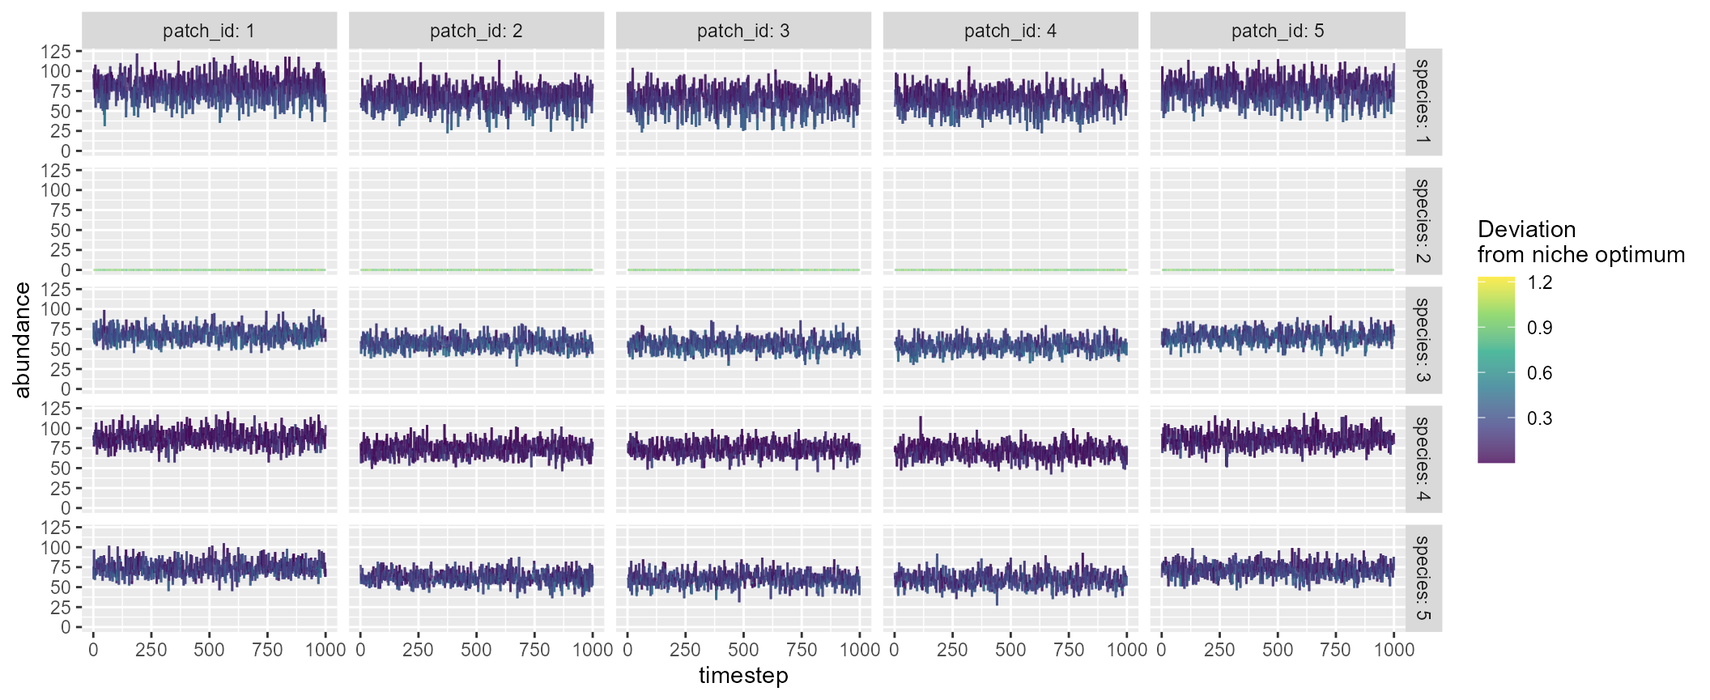
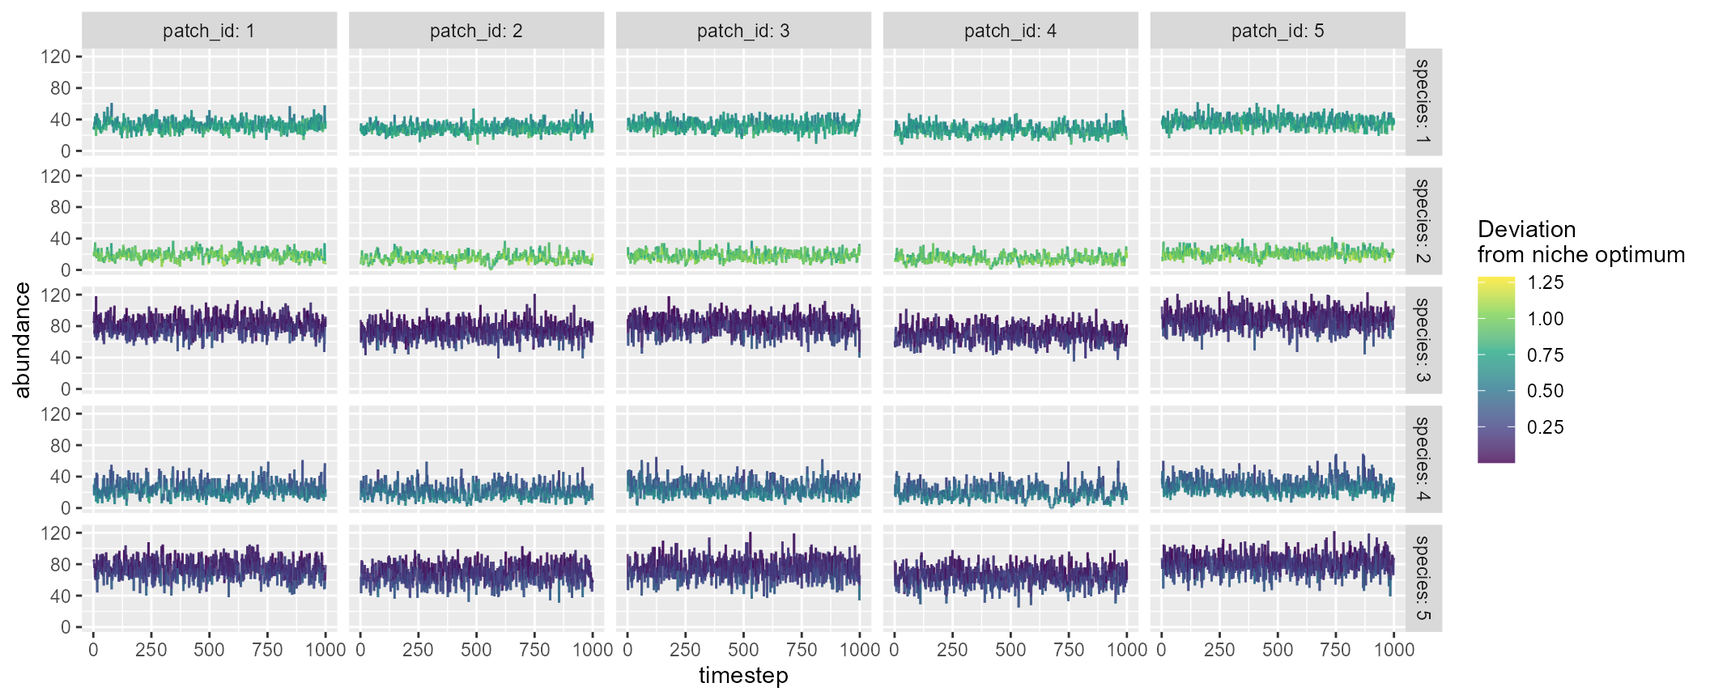
edit: pkg website

diff --git a/docs/articles/mcsim.html b/docs/articles/mcsim.html
@@ -221,16 +221,16 @@ species that are randomly chosen:</p>
 <span><span class="co">#&gt; <span style="color: #949494;"># A tibble: 25,000 × 9</span></span></span>
 <span><span class="co">#&gt;    timestep patch_id mean_env     env carrying_capacity species niche_optim</span></span>
 <span><span class="co">#&gt;       <span style="color: #949494; font-style: italic;">&lt;dbl&gt;</span>    <span style="color: #949494; font-style: italic;">&lt;dbl&gt;</span>    <span style="color: #949494; font-style: italic;">&lt;dbl&gt;</span>   <span style="color: #949494; font-style: italic;">&lt;dbl&gt;</span>             <span style="color: #949494; font-style: italic;">&lt;dbl&gt;</span>   <span style="color: #949494; font-style: italic;">&lt;dbl&gt;</span>       <span style="color: #949494; font-style: italic;">&lt;dbl&gt;</span></span></span>
-<span><span class="co">#&gt; <span style="color: #BCBCBC;"> 1</span>        1        1        0  0.099<span style="text-decoration: underline;">3</span>               100       1      0.178 </span></span>
-<span><span class="co">#&gt; <span style="color: #BCBCBC;"> 2</span>        1        1        0  0.099<span style="text-decoration: underline;">3</span>               100       2     -<span style="color: #BB0000;">0.913</span> </span></span>
-<span><span class="co">#&gt; <span style="color: #BCBCBC;"> 3</span>        1        1        0  0.099<span style="text-decoration: underline;">3</span>               100       3     -<span style="color: #BB0000;">0.281</span> </span></span>
-<span><span class="co">#&gt; <span style="color: #BCBCBC;"> 4</span>        1        1        0  0.099<span style="text-decoration: underline;">3</span>               100       4     -<span style="color: #BB0000;">0.062</span><span style="color: #BB0000; text-decoration: underline;">2</span></span></span>
-<span><span class="co">#&gt; <span style="color: #BCBCBC;"> 5</span>        1        1        0  0.099<span style="text-decoration: underline;">3</span>               100       5     -<span style="color: #BB0000;">0.213</span> </span></span>
-<span><span class="co">#&gt; <span style="color: #BCBCBC;"> 6</span>        1        2        0 -<span style="color: #BB0000;">0.015</span><span style="color: #BB0000; text-decoration: underline;">5</span>               100       1      0.178 </span></span>
-<span><span class="co">#&gt; <span style="color: #BCBCBC;"> 7</span>        1        2        0 -<span style="color: #BB0000;">0.015</span><span style="color: #BB0000; text-decoration: underline;">5</span>               100       2     -<span style="color: #BB0000;">0.913</span> </span></span>
-<span><span class="co">#&gt; <span style="color: #BCBCBC;"> 8</span>        1        2        0 -<span style="color: #BB0000;">0.015</span><span style="color: #BB0000; text-decoration: underline;">5</span>               100       3     -<span style="color: #BB0000;">0.281</span> </span></span>
-<span><span class="co">#&gt; <span style="color: #BCBCBC;"> 9</span>        1        2        0 -<span style="color: #BB0000;">0.015</span><span style="color: #BB0000; text-decoration: underline;">5</span>               100       4     -<span style="color: #BB0000;">0.062</span><span style="color: #BB0000; text-decoration: underline;">2</span></span></span>
-<span><span class="co">#&gt; <span style="color: #BCBCBC;">10</span>        1        2        0 -<span style="color: #BB0000;">0.015</span><span style="color: #BB0000; text-decoration: underline;">5</span>               100       5     -<span style="color: #BB0000;">0.213</span> </span></span>
+<span><span class="co">#&gt; <span style="color: #BCBCBC;"> 1</span>        1        1        0  0.049<span style="text-decoration: underline;">3</span>               100       1       0.709</span></span>
+<span><span class="co">#&gt; <span style="color: #BCBCBC;"> 2</span>        1        1        0  0.049<span style="text-decoration: underline;">3</span>               100       2       0.936</span></span>
+<span><span class="co">#&gt; <span style="color: #BCBCBC;"> 3</span>        1        1        0  0.049<span style="text-decoration: underline;">3</span>               100       3      -<span style="color: #BB0000;">0.140</span></span></span>
+<span><span class="co">#&gt; <span style="color: #BCBCBC;"> 4</span>        1        1        0  0.049<span style="text-decoration: underline;">3</span>               100       4       0.475</span></span>
+<span><span class="co">#&gt; <span style="color: #BCBCBC;"> 5</span>        1        1        0  0.049<span style="text-decoration: underline;">3</span>               100       5      -<span style="color: #BB0000;">0.193</span></span></span>
+<span><span class="co">#&gt; <span style="color: #BCBCBC;"> 6</span>        1        2        0 -<span style="color: #BB0000;">0.035</span><span style="color: #BB0000; text-decoration: underline;">0</span>               100       1       0.709</span></span>
+<span><span class="co">#&gt; <span style="color: #BCBCBC;"> 7</span>        1        2        0 -<span style="color: #BB0000;">0.035</span><span style="color: #BB0000; text-decoration: underline;">0</span>               100       2       0.936</span></span>
+<span><span class="co">#&gt; <span style="color: #BCBCBC;"> 8</span>        1        2        0 -<span style="color: #BB0000;">0.035</span><span style="color: #BB0000; text-decoration: underline;">0</span>               100       3      -<span style="color: #BB0000;">0.140</span></span></span>
+<span><span class="co">#&gt; <span style="color: #BCBCBC;"> 9</span>        1        2        0 -<span style="color: #BB0000;">0.035</span><span style="color: #BB0000; text-decoration: underline;">0</span>               100       4       0.475</span></span>
+<span><span class="co">#&gt; <span style="color: #BCBCBC;">10</span>        1        2        0 -<span style="color: #BB0000;">0.035</span><span style="color: #BB0000; text-decoration: underline;">0</span>               100       5      -<span style="color: #BB0000;">0.193</span></span></span>
 <span><span class="co">#&gt; <span style="color: #949494;"># ℹ 24,990 more rows</span></span></span>
 <span><span class="co">#&gt; <span style="color: #949494;"># ℹ 2 more variables: r_xt &lt;dbl&gt;, abundance &lt;dbl&gt;</span></span></span>
 <span><span class="co">#&gt; </span></span>
@@ -238,45 +238,45 @@ species that are randomly chosen:</p>
 <span><span class="co">#&gt; <span style="color: #949494;"># A tibble: 5 × 6</span></span></span>
 <span><span class="co">#&gt;   species mean_abundance    r0 niche_optim sd_niche_width p_dispersal</span></span>
 <span><span class="co">#&gt;     <span style="color: #949494; font-style: italic;">&lt;dbl&gt;</span>          <span style="color: #949494; font-style: italic;">&lt;dbl&gt;</span> <span style="color: #949494; font-style: italic;">&lt;dbl&gt;</span>       <span style="color: #949494; font-style: italic;">&lt;dbl&gt;</span>          <span style="color: #949494; font-style: italic;">&lt;dbl&gt;</span>       <span style="color: #949494; font-style: italic;">&lt;dbl&gt;</span></span></span>
-<span><span class="co">#&gt; <span style="color: #BCBCBC;">1</span>       1           69.7     4      0.178           0.313         0.1</span></span>
-<span><span class="co">#&gt; <span style="color: #BCBCBC;">2</span>       2            0       4     -<span style="color: #BB0000;">0.913</span>           0.400         0.1</span></span>
-<span><span class="co">#&gt; <span style="color: #BCBCBC;">3</span>       3           60.0     4     -<span style="color: #BB0000;">0.281</span>           0.735         0.1</span></span>
-<span><span class="co">#&gt; <span style="color: #BCBCBC;">4</span>       4           78.4     4     -<span style="color: #BB0000;">0.062</span><span style="color: #BB0000; text-decoration: underline;">2</span>          0.549         0.1</span></span>
-<span><span class="co">#&gt; <span style="color: #BCBCBC;">5</span>       5           65.3     4     -<span style="color: #BB0000;">0.213</span>           0.689         0.1</span></span>
+<span><span class="co">#&gt; <span style="color: #BCBCBC;">1</span>       1           31.3     4       0.709          0.842         0.1</span></span>
+<span><span class="co">#&gt; <span style="color: #BCBCBC;">2</span>       2           17.3     4       0.936          0.952         0.1</span></span>
+<span><span class="co">#&gt; <span style="color: #BCBCBC;">3</span>       3           78.9     4      -<span style="color: #BB0000;">0.140</span>          0.413         0.1</span></span>
+<span><span class="co">#&gt; <span style="color: #BCBCBC;">4</span>       4           23.4     4       0.475          0.387         0.1</span></span>
+<span><span class="co">#&gt; <span style="color: #BCBCBC;">5</span>       5           72.3     4      -<span style="color: #BB0000;">0.193</span>          0.387         0.1</span></span>
 <span><span class="co">#&gt; </span></span>
 <span><span class="co">#&gt; $df_patch</span></span>
 <span><span class="co">#&gt; <span style="color: #949494;"># A tibble: 5 × 5</span></span></span>
 <span><span class="co">#&gt;   patch_id alpha_div mean_env carrying_capacity disturbance</span></span>
 <span><span class="co">#&gt;      <span style="color: #949494; font-style: italic;">&lt;dbl&gt;</span>     <span style="color: #949494; font-style: italic;">&lt;dbl&gt;</span>    <span style="color: #949494; font-style: italic;">&lt;dbl&gt;</span>             <span style="color: #949494; font-style: italic;">&lt;dbl&gt;</span>       <span style="color: #949494; font-style: italic;">&lt;dbl&gt;</span></span></span>
-<span><span class="co">#&gt; <span style="color: #BCBCBC;">1</span>        1         4        0               100           0</span></span>
-<span><span class="co">#&gt; <span style="color: #BCBCBC;">2</span>        2         4        0               100           0</span></span>
-<span><span class="co">#&gt; <span style="color: #BCBCBC;">3</span>        3         4        0               100           0</span></span>
-<span><span class="co">#&gt; <span style="color: #BCBCBC;">4</span>        4         4        0               100           0</span></span>
-<span><span class="co">#&gt; <span style="color: #BCBCBC;">5</span>        5         4        0               100           0</span></span>
+<span><span class="co">#&gt; <span style="color: #BCBCBC;">1</span>        1      5           0               100           0</span></span>
+<span><span class="co">#&gt; <span style="color: #BCBCBC;">2</span>        2      5.00        0               100           0</span></span>
+<span><span class="co">#&gt; <span style="color: #BCBCBC;">3</span>        3      5           0               100           0</span></span>
+<span><span class="co">#&gt; <span style="color: #BCBCBC;">4</span>        4      4.99        0               100           0</span></span>
+<span><span class="co">#&gt; <span style="color: #BCBCBC;">5</span>        5      5           0               100           0</span></span>
 <span><span class="co">#&gt; </span></span>
 <span><span class="co">#&gt; $df_diversity</span></span>
 <span><span class="co">#&gt; <span style="color: #949494;"># A tibble: 1 × 3</span></span></span>
 <span><span class="co">#&gt;   alpha_div beta_div gamma_div</span></span>
 <span><span class="co">#&gt;       <span style="color: #949494; font-style: italic;">&lt;dbl&gt;</span>    <span style="color: #949494; font-style: italic;">&lt;dbl&gt;</span>     <span style="color: #949494; font-style: italic;">&lt;dbl&gt;</span></span></span>
-<span><span class="co">#&gt; <span style="color: #BCBCBC;">1</span>         4        1         4</span></span>
+<span><span class="co">#&gt; <span style="color: #BCBCBC;">1</span>      5.00     1.00         5</span></span>
 <span><span class="co">#&gt; </span></span>
 <span><span class="co">#&gt; $df_xy_coord</span></span>
 <span><span class="co">#&gt; <span style="color: #949494;"># A tibble: 5 × 2</span></span></span>
 <span><span class="co">#&gt;   x_coord y_coord</span></span>
 <span><span class="co">#&gt;     <span style="color: #949494; font-style: italic;">&lt;dbl&gt;</span>   <span style="color: #949494; font-style: italic;">&lt;dbl&gt;</span></span></span>
-<span><span class="co">#&gt; <span style="color: #BCBCBC;">1</span>   5.47    6.29 </span></span>
-<span><span class="co">#&gt; <span style="color: #BCBCBC;">2</span>   2.25    3.60 </span></span>
-<span><span class="co">#&gt; <span style="color: #BCBCBC;">3</span>   3.49    9.80 </span></span>
-<span><span class="co">#&gt; <span style="color: #BCBCBC;">4</span>   0.151   0.410</span></span>
-<span><span class="co">#&gt; <span style="color: #BCBCBC;">5</span>   7.37    7.78 </span></span>
+<span><span class="co">#&gt; <span style="color: #BCBCBC;">1</span>    4.95   0.397</span></span>
+<span><span class="co">#&gt; <span style="color: #BCBCBC;">2</span>    9.27   2.76 </span></span>
+<span><span class="co">#&gt; <span style="color: #BCBCBC;">3</span>    3.86   7.84 </span></span>
+<span><span class="co">#&gt; <span style="color: #BCBCBC;">4</span>    9.06   9.04 </span></span>
+<span><span class="co">#&gt; <span style="color: #BCBCBC;">5</span>    3.70   4.06 </span></span>
 <span><span class="co">#&gt; </span></span>
 <span><span class="co">#&gt; $distance_matrix</span></span>
-<span><span class="co">#&gt;          1        2        3         4         5</span></span>
-<span><span class="co">#&gt; 1 0.000000 4.189537 4.033452  7.925753  2.416469</span></span>
-<span><span class="co">#&gt; 2 4.189537 0.000000 6.323301  3.821493  6.605253</span></span>
-<span><span class="co">#&gt; 3 4.033452 6.323301 0.000000  9.968424  4.376733</span></span>
-<span><span class="co">#&gt; 4 7.925753 3.821493 9.968424  0.000000 10.315246</span></span>
-<span><span class="co">#&gt; 5 2.416469 6.605253 4.376733 10.315246  0.000000</span></span>
+<span><span class="co">#&gt;          1        2        3        4        5</span></span>
+<span><span class="co">#&gt; 1 0.000000 4.923168 7.524682 9.565839 3.867242</span></span>
+<span><span class="co">#&gt; 2 4.923168 0.000000 7.421792 6.274946 5.719286</span></span>
+<span><span class="co">#&gt; 3 7.524682 7.421792 0.000000 5.340384 3.789696</span></span>
+<span><span class="co">#&gt; 4 9.565839 6.274946 5.340384 0.000000 7.319398</span></span>
+<span><span class="co">#&gt; 5 3.867242 5.719286 3.789696 7.319398 0.000000</span></span>
 <span><span class="co">#&gt; </span></span>
 <span><span class="co">#&gt; $interaction_matrix</span></span>
 <span><span class="co">#&gt;      [,1] [,2] [,3] [,4] [,5]</span></span>

diff --git a/docs/articles/igpsim.html b/docs/articles/igpsim.html
@@ -211,35 +211,35 @@ by <code>plot = TRUE</code>, which will show five sample patches:</p>
 <span><span class="co">#&gt; <span style="color: #949494;"># A tibble: 15,000 × 7</span></span></span>
 <span><span class="co">#&gt;    timestep patch_id carrying_capacity disturbance species     abundance   fcl</span></span>
 <span><span class="co">#&gt;       <span style="color: #949494; font-style: italic;">&lt;dbl&gt;</span>    <span style="color: #949494; font-style: italic;">&lt;dbl&gt;</span>             <span style="color: #949494; font-style: italic;">&lt;dbl&gt;</span>       <span style="color: #949494; font-style: italic;">&lt;dbl&gt;</span> <span style="color: #949494; font-style: italic;">&lt;fct&gt;</span>           <span style="color: #949494; font-style: italic;">&lt;dbl&gt;</span> <span style="color: #949494; font-style: italic;">&lt;dbl&gt;</span></span></span>
-<span><span class="co">#&gt; <span style="color: #BCBCBC;"> 1</span>        1        1               100           0 basal              48     2</span></span>
+<span><span class="co">#&gt; <span style="color: #BCBCBC;"> 1</span>        1        1               100           0 basal              42     2</span></span>
 <span><span class="co">#&gt; <span style="color: #BCBCBC;"> 2</span>        1        1               100           0 ig-prey             0     2</span></span>
-<span><span class="co">#&gt; <span style="color: #BCBCBC;"> 3</span>        1        1               100           0 ig-predator        46     2</span></span>
-<span><span class="co">#&gt; <span style="color: #BCBCBC;"> 4</span>        1        2               100           0 basal              54     2</span></span>
+<span><span class="co">#&gt; <span style="color: #BCBCBC;"> 3</span>        1        1               100           0 ig-predator        35     2</span></span>
+<span><span class="co">#&gt; <span style="color: #BCBCBC;"> 4</span>        1        2               100           0 basal              69     2</span></span>
 <span><span class="co">#&gt; <span style="color: #BCBCBC;"> 5</span>        1        2               100           0 ig-prey             0     2</span></span>
-<span><span class="co">#&gt; <span style="color: #BCBCBC;"> 6</span>        1        2               100           0 ig-predator        28     2</span></span>
-<span><span class="co">#&gt; <span style="color: #BCBCBC;"> 7</span>        1        3               100           0 basal              57     2</span></span>
+<span><span class="co">#&gt; <span style="color: #BCBCBC;"> 6</span>        1        2               100           0 ig-predator        29     2</span></span>
+<span><span class="co">#&gt; <span style="color: #BCBCBC;"> 7</span>        1        3               100           0 basal              39     2</span></span>
 <span><span class="co">#&gt; <span style="color: #BCBCBC;"> 8</span>        1        3               100           0 ig-prey             0     2</span></span>
-<span><span class="co">#&gt; <span style="color: #BCBCBC;"> 9</span>        1        3               100           0 ig-predator        32     2</span></span>
-<span><span class="co">#&gt; <span style="color: #BCBCBC;">10</span>        1        4               100           0 basal              49     2</span></span>
+<span><span class="co">#&gt; <span style="color: #BCBCBC;"> 9</span>        1        3               100           0 ig-predator        38     2</span></span>
+<span><span class="co">#&gt; <span style="color: #BCBCBC;">10</span>        1        4               100           0 basal              59     2</span></span>
 <span><span class="co">#&gt; <span style="color: #949494;"># ℹ 14,990 more rows</span></span></span>
 <span><span class="co">#&gt; </span></span>
 <span><span class="co">#&gt; $df_species</span></span>
 <span><span class="co">#&gt; <span style="color: #949494;"># A tibble: 3 × 3</span></span></span>
 <span><span class="co">#&gt;   species     mean_abundance p_dispersal</span></span>
 <span><span class="co">#&gt;   <span style="color: #949494; font-style: italic;">&lt;fct&gt;</span>                <span style="color: #949494; font-style: italic;">&lt;dbl&gt;</span>       <span style="color: #949494; font-style: italic;">&lt;dbl&gt;</span></span></span>
-<span><span class="co">#&gt; <span style="color: #BCBCBC;">1</span> basal                 59.9         0.1</span></span>
+<span><span class="co">#&gt; <span style="color: #BCBCBC;">1</span> basal                 62.5         0.1</span></span>
 <span><span class="co">#&gt; <span style="color: #BCBCBC;">2</span> ig-prey                0           0.1</span></span>
-<span><span class="co">#&gt; <span style="color: #BCBCBC;">3</span> ig-predator           30.2         0.1</span></span>
+<span><span class="co">#&gt; <span style="color: #BCBCBC;">3</span> ig-predator           28.4         0.1</span></span>
 <span><span class="co">#&gt; </span></span>
 <span><span class="co">#&gt; $df_patch</span></span>
 <span><span class="co">#&gt; <span style="color: #949494;"># A tibble: 5 × 4</span></span></span>
 <span><span class="co">#&gt;   patch_id   fcl carrying_capacity disturbance</span></span>
 <span><span class="co">#&gt;      <span style="color: #949494; font-style: italic;">&lt;dbl&gt;</span> <span style="color: #949494; font-style: italic;">&lt;dbl&gt;</span>             <span style="color: #949494; font-style: italic;">&lt;dbl&gt;</span>       <span style="color: #949494; font-style: italic;">&lt;dbl&gt;</span></span></span>
-<span><span class="co">#&gt; <span style="color: #BCBCBC;">1</span>        1     2               100           0</span></span>
-<span><span class="co">#&gt; <span style="color: #BCBCBC;">2</span>        2     2               100           0</span></span>
-<span><span class="co">#&gt; <span style="color: #BCBCBC;">3</span>        3     2               100           0</span></span>
-<span><span class="co">#&gt; <span style="color: #BCBCBC;">4</span>        4     2               100           0</span></span>
-<span><span class="co">#&gt; <span style="color: #BCBCBC;">5</span>        5     2               100           0</span></span>
+<span><span class="co">#&gt; <span style="color: #BCBCBC;">1</span>        1  2                  100           0</span></span>
+<span><span class="co">#&gt; <span style="color: #BCBCBC;">2</span>        2  2                  100           0</span></span>
+<span><span class="co">#&gt; <span style="color: #BCBCBC;">3</span>        3  2                  100           0</span></span>
+<span><span class="co">#&gt; <span style="color: #BCBCBC;">4</span>        4  2                  100           0</span></span>
+<span><span class="co">#&gt; <span style="color: #BCBCBC;">5</span>        5  1.92               100           0</span></span>
 <span><span class="co">#&gt; </span></span>
 <span><span class="co">#&gt; $df_int</span></span>
 <span><span class="co">#&gt; <span style="color: #949494;"># A tibble: 3 × 4</span></span></span>
@@ -253,19 +253,19 @@ by <code>plot = TRUE</code>, which will show five sample patches:</p>
 <span><span class="co">#&gt; <span style="color: #949494;"># A tibble: 5 × 2</span></span></span>
 <span><span class="co">#&gt;   x_coord y_coord</span></span>
 <span><span class="co">#&gt;     <span style="color: #949494; font-style: italic;">&lt;dbl&gt;</span>   <span style="color: #949494; font-style: italic;">&lt;dbl&gt;</span></span></span>
-<span><span class="co">#&gt; <span style="color: #BCBCBC;">1</span>   7.00    2.48 </span></span>
-<span><span class="co">#&gt; <span style="color: #BCBCBC;">2</span>   0.235   0.305</span></span>
-<span><span class="co">#&gt; <span style="color: #BCBCBC;">3</span>   3.87    3.24 </span></span>
-<span><span class="co">#&gt; <span style="color: #BCBCBC;">4</span>   8.27    3.57 </span></span>
-<span><span class="co">#&gt; <span style="color: #BCBCBC;">5</span>   1.84    0.831</span></span>
+<span><span class="co">#&gt; <span style="color: #BCBCBC;">1</span>   0.418   1.27 </span></span>
+<span><span class="co">#&gt; <span style="color: #BCBCBC;">2</span>   0.144   3.77 </span></span>
+<span><span class="co">#&gt; <span style="color: #BCBCBC;">3</span>   5.35    0.986</span></span>
+<span><span class="co">#&gt; <span style="color: #BCBCBC;">4</span>   5.40    3.46 </span></span>
+<span><span class="co">#&gt; <span style="color: #BCBCBC;">5</span>   1.06    9.42 </span></span>
 <span><span class="co">#&gt; </span></span>
 <span><span class="co">#&gt; $distance_matrix</span></span>
 <span><span class="co">#&gt;          1        2        3        4        5</span></span>
-<span><span class="co">#&gt; 1 0.000000 7.108723 3.229040 1.671617 5.415148</span></span>
-<span><span class="co">#&gt; 2 7.108723 0.000000 4.667804 8.671236 1.693609</span></span>
-<span><span class="co">#&gt; 3 3.229040 4.667804 0.000000 4.414354 3.143126</span></span>
-<span><span class="co">#&gt; 4 1.671617 8.671236 4.414354 0.000000 6.982804</span></span>
-<span><span class="co">#&gt; 5 5.415148 1.693609 3.143126 6.982804 0.000000</span></span></code></pre></div>
+<span><span class="co">#&gt; 1 0.000000 2.510284 4.941324 5.442353 8.166369</span></span>
+<span><span class="co">#&gt; 2 2.510284 0.000000 5.904099 5.268891 5.719692</span></span>
+<span><span class="co">#&gt; 3 4.941324 5.904099 0.000000 2.470930 9.457988</span></span>
+<span><span class="co">#&gt; 4 5.442353 5.268891 2.470930 0.000000 7.373305</span></span>
+<span><span class="co">#&gt; 5 8.166369 5.719692 9.457988 7.373305 0.000000</span></span></code></pre></div>
 </div>
 <div class="section level2">
 <h2 id="custom-brnet-igpsim">Custom: <code>brnet()</code> + <code>igpsim()</code><a class="anchor" aria-label="anchor" href="#custom-brnet-igpsim"></a>

diff --git a/docs/reference/mcbrnet-package.html b/docs/reference/mcbrnet-package.html
@@ -1,5 +1,5 @@
 <!DOCTYPE html>
-<!-- Generated by pkgdown: do not edit by hand --><html lang="en"><head><meta http-equiv="Content-Type" content="text/html; charset=UTF-8"><meta charset="utf-8"><meta http-equiv="X-UA-Compatible" content="IE=edge"><meta name="viewport" content="width=device-width, initial-scale=1, shrink-to-fit=no"><meta name="description" content="Metacommunity simulation in branching networks."><!-- Inform modern browsers that this page supports both dark and light color schemes,
+<!-- Generated by pkgdown: do not edit by hand --><html lang="en"><head><meta http-equiv="Content-Type" content="text/html; charset=UTF-8"><meta charset="utf-8"><meta http-equiv="X-UA-Compatible" content="IE=edge"><meta name="viewport" content="width=device-width, initial-scale=1, shrink-to-fit=no"><meta name="description" content="Ecological simulation in spatial networks."><!-- Inform modern browsers that this page supports both dark and light color schemes,
   and the page author prefers light. --><meta name="color-scheme" content="dark light"><script>
   // If `prefers-color-scheme` is not supported, fall back to light mode.
   // i.e. In this case, inject the `light` CSS before the others, with
@@ -11,7 +11,7 @@
       "<link id=\"css\" rel=\"stylesheet\" href=\"https://bootswatch.com/5/flatly/bootstrap.css\" onload=\"document.documentElement.style.display = ''\">"
     );
   }
-</script><title>mcbrnet: Metacommunity simulation in branching networks — mcbrnet-package • mcbrnet</title><script src="../deps/jquery-3.6.0/jquery-3.6.0.min.js"></script><meta name="viewport" content="width=device-width, initial-scale=1, shrink-to-fit=no"><link href="../deps/bootstrap-5.1.3/bootstrap.min.css" rel="stylesheet"><script src="../deps/bootstrap-5.1.3/bootstrap.bundle.min.js"></script><!-- Font Awesome icons --><link rel="stylesheet" href="https://cdnjs.cloudflare.com/ajax/libs/font-awesome/5.12.1/css/all.min.css" integrity="sha256-mmgLkCYLUQbXn0B1SRqzHar6dCnv9oZFPEC1g1cwlkk=" crossorigin="anonymous"><link rel="stylesheet" href="https://cdnjs.cloudflare.com/ajax/libs/font-awesome/5.12.1/css/v4-shims.min.css" integrity="sha256-wZjR52fzng1pJHwx4aV2AO3yyTOXrcDW7jBpJtTwVxw=" crossorigin="anonymous"><!-- bootstrap-toc --><script src="https://cdn.rawgit.com/afeld/bootstrap-toc/v1.0.1/dist/bootstrap-toc.min.js"></script><!-- headroom.js --><script src="https://cdnjs.cloudflare.com/ajax/libs/headroom/0.11.0/headroom.min.js" integrity="sha256-AsUX4SJE1+yuDu5+mAVzJbuYNPHj/WroHuZ8Ir/CkE0=" crossorigin="anonymous"></script><script src="https://cdnjs.cloudflare.com/ajax/libs/headroom/0.11.0/jQuery.headroom.min.js" integrity="sha256-ZX/yNShbjqsohH1k95liqY9Gd8uOiE1S4vZc+9KQ1K4=" crossorigin="anonymous"></script><!-- clipboard.js --><script src="https://cdnjs.cloudflare.com/ajax/libs/clipboard.js/2.0.6/clipboard.min.js" integrity="sha256-inc5kl9MA1hkeYUt+EC3BhlIgyp/2jDIyBLS6k3UxPI=" crossorigin="anonymous"></script><!-- search --><script src="https://cdnjs.cloudflare.com/ajax/libs/fuse.js/6.4.6/fuse.js" integrity="sha512-zv6Ywkjyktsohkbp9bb45V6tEMoWhzFzXis+LrMehmJZZSys19Yxf1dopHx7WzIKxr5tK2dVcYmaCk2uqdjF4A==" crossorigin="anonymous"></script><script src="https://cdnjs.cloudflare.com/ajax/libs/autocomplete.js/0.38.0/autocomplete.jquery.min.js" integrity="sha512-GU9ayf+66Xx2TmpxqJpliWbT5PiGYxpaG8rfnBEk1LL8l1KGkRShhngwdXK1UgqhAzWpZHSiYPc09/NwDQIGyg==" crossorigin="anonymous"></script><script src="https://cdnjs.cloudflare.com/ajax/libs/mark.js/8.11.1/mark.min.js" integrity="sha512-5CYOlHXGh6QpOFA/TeTylKLWfB3ftPsde7AnmhuitiTX4K5SqCLBeKro6sPS8ilsz1Q4NRx3v8Ko2IBiszzdww==" crossorigin="anonymous"></script><!-- pkgdown --><script src="../pkgdown.js"></script><meta property="og:title" content="mcbrnet: Metacommunity simulation in branching networks — mcbrnet-package"><meta property="og:description" content="Metacommunity simulation in branching networks."><!-- mathjax --><script src="https://cdnjs.cloudflare.com/ajax/libs/mathjax/2.7.5/MathJax.js" integrity="sha256-nvJJv9wWKEm88qvoQl9ekL2J+k/RWIsaSScxxlsrv8k=" crossorigin="anonymous"></script><script src="https://cdnjs.cloudflare.com/ajax/libs/mathjax/2.7.5/config/TeX-AMS-MML_HTMLorMML.js" integrity="sha256-84DKXVJXs0/F8OTMzX4UR909+jtl4G7SPypPavF+GfA=" crossorigin="anonymous"></script><!--[if lt IE 9]>
+</script><title>mcbrnet: Ecological simulation in spatial networks — mcbrnet-package • mcbrnet</title><script src="../deps/jquery-3.6.0/jquery-3.6.0.min.js"></script><meta name="viewport" content="width=device-width, initial-scale=1, shrink-to-fit=no"><link href="../deps/bootstrap-5.1.3/bootstrap.min.css" rel="stylesheet"><script src="../deps/bootstrap-5.1.3/bootstrap.bundle.min.js"></script><!-- Font Awesome icons --><link rel="stylesheet" href="https://cdnjs.cloudflare.com/ajax/libs/font-awesome/5.12.1/css/all.min.css" integrity="sha256-mmgLkCYLUQbXn0B1SRqzHar6dCnv9oZFPEC1g1cwlkk=" crossorigin="anonymous"><link rel="stylesheet" href="https://cdnjs.cloudflare.com/ajax/libs/font-awesome/5.12.1/css/v4-shims.min.css" integrity="sha256-wZjR52fzng1pJHwx4aV2AO3yyTOXrcDW7jBpJtTwVxw=" crossorigin="anonymous"><!-- bootstrap-toc --><script src="https://cdn.rawgit.com/afeld/bootstrap-toc/v1.0.1/dist/bootstrap-toc.min.js"></script><!-- headroom.js --><script src="https://cdnjs.cloudflare.com/ajax/libs/headroom/0.11.0/headroom.min.js" integrity="sha256-AsUX4SJE1+yuDu5+mAVzJbuYNPHj/WroHuZ8Ir/CkE0=" crossorigin="anonymous"></script><script src="https://cdnjs.cloudflare.com/ajax/libs/headroom/0.11.0/jQuery.headroom.min.js" integrity="sha256-ZX/yNShbjqsohH1k95liqY9Gd8uOiE1S4vZc+9KQ1K4=" crossorigin="anonymous"></script><!-- clipboard.js --><script src="https://cdnjs.cloudflare.com/ajax/libs/clipboard.js/2.0.6/clipboard.min.js" integrity="sha256-inc5kl9MA1hkeYUt+EC3BhlIgyp/2jDIyBLS6k3UxPI=" crossorigin="anonymous"></script><!-- search --><script src="https://cdnjs.cloudflare.com/ajax/libs/fuse.js/6.4.6/fuse.js" integrity="sha512-zv6Ywkjyktsohkbp9bb45V6tEMoWhzFzXis+LrMehmJZZSys19Yxf1dopHx7WzIKxr5tK2dVcYmaCk2uqdjF4A==" crossorigin="anonymous"></script><script src="https://cdnjs.cloudflare.com/ajax/libs/autocomplete.js/0.38.0/autocomplete.jquery.min.js" integrity="sha512-GU9ayf+66Xx2TmpxqJpliWbT5PiGYxpaG8rfnBEk1LL8l1KGkRShhngwdXK1UgqhAzWpZHSiYPc09/NwDQIGyg==" crossorigin="anonymous"></script><script src="https://cdnjs.cloudflare.com/ajax/libs/mark.js/8.11.1/mark.min.js" integrity="sha512-5CYOlHXGh6QpOFA/TeTylKLWfB3ftPsde7AnmhuitiTX4K5SqCLBeKro6sPS8ilsz1Q4NRx3v8Ko2IBiszzdww==" crossorigin="anonymous"></script><!-- pkgdown --><script src="../pkgdown.js"></script><meta property="og:title" content="mcbrnet: Ecological simulation in spatial networks — mcbrnet-package"><meta property="og:description" content="Ecological simulation in spatial networks."><!-- mathjax --><script src="https://cdnjs.cloudflare.com/ajax/libs/mathjax/2.7.5/MathJax.js" integrity="sha256-nvJJv9wWKEm88qvoQl9ekL2J+k/RWIsaSScxxlsrv8k=" crossorigin="anonymous"></script><script src="https://cdnjs.cloudflare.com/ajax/libs/mathjax/2.7.5/config/TeX-AMS-MML_HTMLorMML.js" integrity="sha256-84DKXVJXs0/F8OTMzX4UR909+jtl4G7SPypPavF+GfA=" crossorigin="anonymous"></script><!--[if lt IE 9]>
 <script src="https://oss.maxcdn.com/html5shiv/3.7.3/html5shiv.min.js"></script>
 <script src="https://oss.maxcdn.com/respond/1.4.2/respond.min.js"></script>
 <![endif]--><!-- Flatly Theme - Light  --><link id="css-light" rel="stylesheet" href="https://bootswatch.com/5/flatly/bootstrap.css" media="(prefers-color-scheme: light), (prefers-color-scheme: no-preference)"><!-- Darkly Theme - Dark --><link id="css-dark" rel="stylesheet" href="https://bootswatch.com/5/darkly/bootstrap.css" media="(prefers-color-scheme: dark)"><!-- preferably CSS --><link rel="stylesheet" href="../preferably.css"><link id="css-code-light" rel="stylesheet" href="../code-color-scheme-light.css" media="(prefers-color-scheme: light), (prefers-color-scheme: no-preference)"><link id="css-code-dark" rel="stylesheet" href="../code-color-scheme-dark.css" media="(prefers-color-scheme: dark)"></head><body>
@@ -65,13 +65,13 @@
 </nav><div class="container template-reference-topic">
 <div class="row">
   <main id="main" class="col-md-9"><div class="page-header">
-      <img src="" class="logo" alt=""><h1>mcbrnet: Metacommunity simulation in branching networks</h1>
+      <img src="" class="logo" alt=""><h1>mcbrnet: Ecological simulation in spatial networks</h1>
       <small class="dont-index">Source: <a href="https://github.com/aterui/mcbrnet/blob/HEAD/R/mcbrnet-package.R" class="external-link"><code>R/mcbrnet-package.R</code></a></small>
       <div class="d-none name"><code>mcbrnet-package.Rd</code></div>
     </div>
 
     <div class="ref-description section level2">
-    <p>Metacommunity simulation in branching networks.</p>
+    <p>Ecological simulation in spatial networks.</p>
     </div>
 
 

diff --git a/docs/index.html b/docs/index.html
@@ -91,8 +91,12 @@
 </nav><div class="container template-home">
 <div class="row">
   <main id="main" class="col-md-9"><div class="section level1">
-<div class="page-header"><h1 id="overview">Overview<a class="anchor" aria-label="anchor" href="#overview"></a>
+<div class="page-header"><h1 id="mcbrnet">mcbrnet<a class="anchor" aria-label="anchor" href="#mcbrnet"></a>
 </h1></div>
+</div>
+<div class="section level1">
+<h1 id="overview">Overview<a class="anchor" aria-label="anchor" href="#overview"></a>
+</h1>
 <p>The R package <code>mcbrnet</code> provides functions to perform ecological simulations in spatial networks. Main functions in this package can: (1) generate a random branching network with the specified number of patches and probability of branching (<code><a href="reference/brnet.html">brnet()</a></code>); and (2) simulate metacommunity/foodweb dynamics in space (<code><a href="reference/mcsim.html">mcsim()</a></code>, <code><a href="reference/igpsim.html">igpsim()</a></code>, <code><a href="reference/sglv.html">sglv()</a></code>). See <strong>Articles</strong> for instruction.</p>
 </div>
 <div class="section level1">

diff --git a/NEWS.md b/NEWS.md
@@ -1,3 +1,5 @@
+Changelog
+================
 
 ## Version 1.4.0 (10/24/23)
 

diff --git a/README.md b/README.md
@@ -1,3 +1,5 @@
+mcbrnet
+================
 
 # Overview
 
